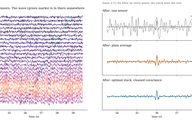
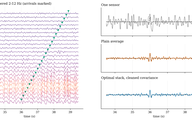
011 seismic denoiser card and write-up rewritten in the 001/002 style

diff --git a/index.html b/index.html
@@ -792,7 +792,16 @@
       </button>
       <div class="more"><div>
         <div class="detail">
-          <div class="text"><div class="gallery"><figure class="big"><img src="https://raw.githubusercontent.com/kevingrainger/Portfolio/main/005-seismic-denoiser/figures/cover.png" alt="" loading="lazy"></figure><figure class="small"><img src="https://raw.githubusercontent.com/kevingrainger/Portfolio/main/005-seismic-denoiser/figures/fig2_scoreboard.png" alt="" loading="lazy"></figure><figure class="small"><img src="https://raw.githubusercontent.com/kevingrainger/Portfolio/main/005-seismic-denoiser/figures/fig3_array.png" alt="" loading="lazy"></figure></div><p>Small earthquakes under Los Angeles are often buried in traffic and other noise. On 3,000 of the noisiest recordings from the Southern California Seismic Network I tested which denoising methods keep the P-wave arrival time and first motion. Random matrix theory only looked best because every arrival sat at the same point in the window. A plain bandpass filter was the only method that helped without changing any first motions.</p>
+          <div class="text"><div class="gallery"><figure class="big"><img src="https://raw.githubusercontent.com/kevingrainger/Portfolio/main/005-seismic-denoiser/figures/cover.png" alt="" loading="lazy"></figure><figure class="small"><img src="https://raw.githubusercontent.com/kevingrainger/Portfolio/main/005-seismic-denoiser/figures/fig2_scoreboard.png" alt="" loading="lazy"></figure><figure class="small"><img src="https://raw.githubusercontent.com/kevingrainger/Portfolio/main/005-seismic-denoiser/figures/fig3_array.png" alt="" loading="lazy"></figure></div><p>Seismology is built on signal processing, which ties it to my other projects, and earth systems are where my passion in applied mathematics lies. Southern California has about 10,000 earthquakes a year, most of them too small to feel, and under Los Angeles many are buried in traffic and other noise.</p><p>The aim was to find which denoising methods keep what a seismologist needs from a recording, the P-wave arrival time and the first motion (whether the ground moves up or down first). Filters, wavelets and a random-matrix denoiser were scored on 3,000 of the noisiest labelled recordings from the Southern California Seismic Network (Ross, Meier &amp; Hauksson, 2018), and minimum-variance stacking on a synthetic array.</p><p>It was found that the random-matrix denoiser picked 98% of arrivals only because every recording had its arrival at the same point. With the arrivals moved at random it picked 60%, against 56% with no denoising. A plain bandpass filter was the only method that helped (63%) without changing any first motions, while wavelets added about 3 dB of signal-to-noise but flipped the first motion on about one trace in fourteen.</p><p>Furthermore, it was found on the synthetic array that minimum-variance weights cancel noise shared between neighbouring sensors (13.9 dB against 10.9 dB for a plain average of 32), but only once the noise covariance is cleaned with shrinkage, from 0.2 s of noise rather than 0.8 s.</p>
+            
+            
+            
+            
+            
+            
+            
+            
+            
             
             
             
@@ -804,7 +813,7 @@
           
         </div>
         <div class="ext" id="ext-005" hidden>
-          <div class="infull"><p>Seismology is built on signal processing, which ties it to my other projects, and earth systems are where my passion in applied mathematics lies. Small earthquakes under Los Angeles are often buried in traffic and other noise. I took 3,000 of the noisiest recordings (the bottom fifth by signal-to-noise) of small, local earthquakes from the Southern California Seismic Network, from a dataset where analysts have marked each P-wave arrival and its first motion. The P wave is the first wave to arrive from an earthquake. The time it lands at each station is used to locate the quake, and whether the ground first moves up or down at each station (the first motion) shows how the fault slipped. Earthquake catalogues and later reanalysis are built on these two numbers, so they are what any denoising has to preserve. With so many denoising methods available, the question was whether any of them can make these noisy recordings usable.</p><p>I picked arrivals with an STA/LTA trigger, the standard picker in seismology, and calibrated it and a first-motion estimator on quiet recordings, where they agree with the analysts 99% and 97% of the time. On the noisy set I compared a bandpass filter, wavelet thresholding, a random-matrix-theory denoiser (a PCA template with a Marchenko-Pastur cut-off), and wavelets followed by random matrix theory. Random matrix theory looked best, picking 98% of arrivals, but only because every recording had its arrival at the same point in the window. With the arrivals moved at random it fell to 60%, against 56% with no denoising at all. Wavelets raised the signal-to-noise ratio by about 3 dB but flipped the first motion on about one trace in fourteen. A plain bandpass filter was the only method that helped (from 55% to 63% of arrivals picked) without changing any first motions.</p><p>The dataset holds single-station recordings, so to test combining sensors I built a synthetic array: 24 sensors in a line, one wave crossing them, and noise from a road shared between neighbouring sensors. Minimum-variance (Capon) beamforming, which weights each sensor using the noise covariance, beats a simple average because it learns the shared road noise and cancels it. It only does so once the covariance is cleaned with shrinkage: raw weights need about 0.8 s of noise to estimate, cleaned ones work from 0.2 s.</p></div>
+          <div class="infull"><p>The P wave is the first wave to arrive from an earthquake. The time it arrives at each station is used to locate the quake, and whether the ground first moves up or down (the first motion) shows how the fault slipped. Earthquake catalogues are built on these two numbers, so they are what any denoising has to preserve. The data are 3,000 recordings from the noisiest fifth of a labelled Southern California Seismic Network dataset (Ross, Meier &amp; Hauksson, 2018), small (M ≤ 3.5) local (≤ 50 km) earthquakes with an analyst&#x27;s arrival time and first motion on each, 6 s at 100 Hz with a median signal-to-noise ratio of 2.7.</p><p>Arrivals are picked with an STA/LTA trigger, the standard picker in seismology. It compares the energy in a short window (0.1 s) with a long one (1 s) and picks the first sample where the ratio passes 6:</p><p class="eq">R(t) = STA(t) / LTA(t) = [ (1/n_s) Σ_{last 0.1 s} x² ] / [ (1/n_l) Σ_{last 1 s} x² ],     pick = first t with R(t) &gt; 6</p><p>The random-matrix denoiser keeps the principal components of the traces whose eigenvalues lie above the Marchenko-Pastur edge for n samples per trace and m traces:</p><p class="eq">λ₊ = (1 + √(n / m))²</p><p>For an array, the minimum-variance (Capon) weights give the least noise for a given noise covariance Σ while passing the aligned wave a at unit gain:</p><p class="eq">w = Σ⁻¹ a / (aᵀ Σ⁻¹ a)</p><p>The main results:</p><ul class="abs"><li><b>Moving the arrival changes the ranking.</b> Every trace in the dataset has its arrival at the same sample. Scored as they come, the random-matrix denoiser picked 98% of arrivals. With each arrival moved at random it fell to 60%, against 56% with no denoising.</li><li><b>Only a bandpass filter helps without harm.</b> It raised the arrivals picked from 56% to 63% and kept the first motion on 91% of traces, the same as no denoising.</li><li><b>A cleaner-looking waveform can be worse for picking.</b> Wavelet thresholding added about 3 dB of signal-to-noise and picked the most arrivals (68%), but the first motion matched the analyst on 84% of traces against 91%, a flip on about one trace in fourteen.</li></ul><p>The other results, on a synthetic array where the truth is known:</p><ul class="abs"><li><b>Shared noise holds back averaging.</b> With noise from a road shared between neighbouring sensors, a plain average of 32 sensors reduced the noise by 10.9 dB against 15.1 dB for independent noise. The minimum-variance stack, with a cleaned covariance, reached 13.9 dB.</li><li><b>The covariance has to be cleaned.</b> Raw minimum-variance weights needed about 0.8 s of noise to beat the average. Cleaned with nonlinear shrinkage (corrlib), they beat it from 0.2 s.</li></ul><p>We could test the array methods on a real dense array, which the single-station dataset cannot do, and score the denoisers by how much they move the event locations and fault-plane solutions built from the picks.</p></div>
           <div class="tabs" role="tablist" aria-label="Seismic denoiser sections">
             <button type="button" role="tab" id="t-005-method" aria-controls="p-005-method" aria-selected="true">method</button>
             <button type="button" role="tab" id="t-005-results" aria-controls="p-005-results" aria-selected="false" tabindex="-1">results</button>
@@ -812,14 +821,15 @@
           </div>
           <div class="panel" role="tabpanel" id="p-005-method" aria-labelledby="t-005-method">
             <ol class="timeline">
-<li class="step"><div><h5><span class="sn">01</span>Calibrate on quiet traces</h5><p>Picker and first-motion estimator agree with analysts on 99% and 97% of clean recordings.</p></div><figure><img src="https://raw.githubusercontent.com/kevingrainger/Portfolio/main/005-seismic-denoiser/figures/fig1_one_trace.png" alt="Calibrate on quiet traces" loading="lazy"><figcaption>Calibrate on quiet traces</figcaption></figure></li>
-<li class="step"><div><h5><span class="sn">02</span>Score on noisy ones</h5><p>Five methods, with and without a random shift of the arrival. Random matrix theory&#x27;s 98% falls to 60% once the arrivals move, and only a bandpass filter helps without flipping first motions.</p></div><figure><img src="https://raw.githubusercontent.com/kevingrainger/Portfolio/main/005-seismic-denoiser/figures/fig2_scoreboard.png" alt="Score on noisy ones" loading="lazy"><figcaption>Score on noisy ones</figcaption></figure></li>
-<li class="step"><div><h5><span class="sn">03</span>Stack an array</h5><p>Sensors near a road share noise; the covariance finds and cancels it.</p></div><figure><img src="https://raw.githubusercontent.com/kevingrainger/Portfolio/main/005-seismic-denoiser/figures/fig3_array.png" alt="Stack an array" loading="lazy"><figcaption>Stack an array</figcaption></figure></li>
-<li class="step"><div><h5><span class="sn">04</span>How much data?</h5><p>Raw optimal weights need ~0.8 s of noise to beat averaging; cleaned weights win from 0.2 s.</p></div><figure><img src="https://raw.githubusercontent.com/kevingrainger/Portfolio/main/005-seismic-denoiser/figures/fig4_crossover.png" alt="How much data?" loading="lazy"><figcaption>How much data?</figcaption></figure></li>
+<li class="step"><div><h5><span class="sn">01</span>The data and calibration</h5><p>The labelled waveforms are from Ross, Meier &amp; Hauksson (2018), single-station recordings from the Southern California Seismic Network, each 6 s at 100 Hz and centred on the analyst&#x27;s P-wave arrival, with the first motion labelled up or down. I took 3,000 traces from the noisiest fifth by signal-to-noise ratio (median 2.7), small (M ≤ 3.5) and local (≤ 50 km).</p><p>Two tools score every method:</p><ul><li><b>The picker.</b> An STA/LTA trigger (Allen, 1978) with a 0.1 s short window, a 1 s long window and a threshold of 6. A pick is correct if it is within 0.2 s of the analyst&#x27;s.</li><li><b>The first motion.</b> The mean of the three samples after the arrival against the mean of the ten before it, up if it rises.</li></ul><p>Both were calibrated on 2,000 of the quietest traces, where they should be near perfect. There the picker is within 0.2 s on 99% of traces and the first motion agrees with the analyst on 97%. On the noisy set a drop below that comes from the noise rather than the tools.</p><p>The figure is one noisy trace with its arrival moved (next step) and four treatments, each scaled to its own maximum. The dashed black line is the analyst&#x27;s arrival and the solid coloured line each method&#x27;s pick. The raw trace and the random-matrix template pick about 0.05 s late, the bandpass filter picks on the arrival, and the wavelet trace is smooth before the arrival but its pick is late as well.</p></div><div class="figs"><figure><img src="https://raw.githubusercontent.com/kevingrainger/Portfolio/main/005-seismic-denoiser/figures/fig1_one_trace.png" alt="One noisy trace: raw, bandpass, wavelet and random-matrix template, with the analyst&#x27;s arrival and each pick" loading="lazy"><figcaption>One noisy trace: raw, bandpass, wavelet and random-matrix template, with the analyst&#x27;s arrival and each pick</figcaption></figure></div></li>
+<li class="step"><div><h5><span class="sn">02</span>Denoising methods and the moved-arrival test</h5><p>Four denoisers were compared with doing nothing:</p><ul><li><b>Bandpass.</b> A fourth-order Butterworth filter passing 1 to 20 Hz, run forwards and backwards so it adds no delay.</li><li><b>Wavelet thresholding.</b> A Daubechies-4 wavelet transform to four levels, with the detail coefficients soft-thresholded at the universal threshold, the noise level times √(2 ln n) (Donoho &amp; Johnstone, 1994).</li><li><b>Random-matrix template.</b> The 3,000 traces as a matrix, keeping the principal components above the Marchenko-Pastur edge (at least five), which assumes white, independent noise.</li><li><b>Wavelet then random-matrix.</b></li></ul><p>Every trace in the dataset has its arrival at sample 300. A method that learns from many traces at once can learn that something happens at sample 300 and put it there. So each method was scored twice, on the traces as they come and on a random 4.5 s window of each, which moves the arrival to anywhere from 1.5 to 3 s.</p><p>In the figure each row is a method, grey for the arrival fixed and coloured for the arrival moved, with three panels:</p><ul><li><b>Arrivals picked.</b> No denoising 56%, bandpass 63%, wavelet 68%, random-matrix 98% fixed but 60% moved, wavelet then random-matrix 74% fixed and 59% moved.</li><li><b>First motion.</b> No denoising and bandpass 91%, random-matrix 86%, wavelet 84%, wavelet then random-matrix 79%.</li><li><b>Signal-to-noise gain.</b> Random-matrix 10.5 dB fixed and 7.1 dB moved, wavelet then random-matrix 5.1 and 4.2 dB, wavelet 3.0 dB, bandpass 0.1 dB.</li></ul><p>Most of what the random-matrix template had learned was where the arrivals are. Its signal-to-noise gain stays high once they move, while its picks fall almost to no denoising, so the gain did not come with a better pick. The bandpass filter is the only method that picks more arrivals without changing any first motions.</p><p>The second figure is the spread of pick errors with the arrival moved, the pick minus the analyst&#x27;s arrival, with ±0.2 s shaded. The misses differ between methods. With no denoising 41% of traces never pass the threshold and almost every pick that is made is right, slightly late (median error 0.08 s). The bandpass filter cuts the traces with no pick to 32%. The random-matrix methods pick almost every trace, but many of the extra picks are early, spread up to 1.5 s before the arrival.</p></div><div class="figs"><figure><img src="https://raw.githubusercontent.com/kevingrainger/Portfolio/main/005-seismic-denoiser/figures/fig2_scoreboard.png" alt="Arrivals picked, first motion and signal-to-noise gain for each method, with the arrival fixed and moved" loading="lazy"><figcaption>Arrivals picked, first motion and signal-to-noise gain for each method, with the arrival fixed and moved</figcaption></figure><figure><img src="https://raw.githubusercontent.com/kevingrainger/Portfolio/main/005-seismic-denoiser/figures/fig5_pick_errors.png" alt="Pick error by method with the arrival moved, and the share of traces with no pick" loading="lazy"><figcaption>Pick error by method with the arrival moved, and the share of traces with no pick</figcaption></figure></div></li>
+<li class="step"><div><h5><span class="sn">03</span>A synthetic array with shared noise</h5><p>The dataset holds single-station recordings, so to test combining sensors I built a synthetic array where the truth is known. 24 sensors sit 0.5 km apart on a line, and a 6 Hz Ricker wavelet crosses them at 0.25 s/km, so each arrives 0.125 s after its neighbour. Each sensor has its own noise, and a road at 2 km adds noise that every sensor shares, strongest near the road and fading over about 2 km.</p><p>Averaging the aligned traces removes independent noise, falling as 1/√N, but shared noise survives the average as well as the wave does. The minimum-variance weights use the noise covariance, estimated from a stretch of noise before the wave arrives, and judged on a different stretch.</p><p>In the first figure, the left panel is the raw traces at their positions, with the band near the road shaded, where the traces are visibly noisier. The right panel is the stacked traces, the plain average (grey), the minimum-variance stack with a cleaned covariance (blue) and the true wave (black). The second figure is the same array filtered 2 to 12 Hz, with each sensor&#x27;s arrival marked on the left, and on the right one sensor, the plain average and the optimal stack, each against the true wave (dashed). The optimal stack has the least noise around the arrival.</p></div><div class="figs"><figure><img src="https://raw.githubusercontent.com/kevingrainger/Portfolio/main/005-seismic-denoiser/figures/fig3_array.png" alt="Raw traces by sensor position, and the average and optimal stack against the true wave" loading="lazy"><figcaption>Raw traces by sensor position, and the average and optimal stack against the true wave</figcaption></figure><figure><img src="https://raw.githubusercontent.com/kevingrainger/Portfolio/main/005-seismic-denoiser/figures/cover.png" alt="The array filtered 2-12 Hz: one sensor, the plain average and the optimal stack" loading="lazy"><figcaption>The array filtered 2-12 Hz: one sensor, the plain average and the optimal stack</figcaption></figure></div></li>
+<li class="step"><div><h5><span class="sn">04</span>How much noise the weights need</h5><p>The minimum-variance weights need a covariance matrix, and estimating one for 32 sensors from a short stretch of noise gives mostly noise, so the weights start to follow it. The fix is to clean the covariance before inverting it, with corrlib&#x27;s Ledoit-Wolf or nonlinear shrinkage.</p><p>The figure is the noise reduction against one typical sensor for 32 sensors, against the length of noise used to estimate the weights (log scale), averaged over eight random arrays:</p><ul><li><b>Plain average.</b> 11.0 dB at every length, since it needs no estimate.</li><li><b>Raw weights.</b> 5.9 dB from 0.2 s of noise, below the average, crossing it at about 0.8 s and reaching 13.8 dB at 10 s.</li><li><b>Ledoit-Wolf.</b> 11.4 dB from 0.2 s.</li><li><b>Nonlinear shrinkage.</b> 13.1 dB from 0.2 s, close to the 13.9 dB all three reach with 10 s of noise.</li></ul><p>This means that with a cleaned covariance the optimal weights work from a fifth of a second of noise, where the raw formula does worse than averaging.</p></div><div class="figs"><figure><img src="https://raw.githubusercontent.com/kevingrainger/Portfolio/main/005-seismic-denoiser/figures/fig4_crossover.png" alt="Noise reduction against the length of noise used for the weights, 32 sensors" loading="lazy"><figcaption>Noise reduction against the length of noise used for the weights, 32 sensors</figcaption></figure></div></li>
+<li class="step"><div><h5><span class="sn">05</span>Noise reduction against array size</h5><p>The last test is how the gain grows with the number of sensors, from 4 to 48, with the weights estimated from 4 s of noise and each point averaged over 20 random arrays.</p><p>In the figure the dashed line is the ideal for independent noise, 10 log₁₀ N, and the grey line is a plain average with independent noise, which follows it. The other two lines have the shared road noise:</p><ul><li><b>Plain average.</b> Falls behind, 10.9 dB at 32 sensors against 15.1 dB for independent noise.</li><li><b>Optimal stack, cleaned.</b> 13.9 dB at 32 sensors and 16.0 dB at 48, recovering most of what the road took away.</li></ul><p>Below about 20 sensors the optimal stack is above the independent-noise line. The comparison is against a typical sensor, which itself carries some of the road noise.</p></div><div class="figs"><figure><img src="https://raw.githubusercontent.com/kevingrainger/Portfolio/main/005-seismic-denoiser/figures/hero.png" alt="Noise reduction against sensors stacked: average and optimal stack with road noise, and the independent-noise ideal" loading="lazy"><figcaption>Noise reduction against sensors stacked: average and optimal stack with road noise, and the independent-noise ideal</figcaption></figure></div></li>
             </ol>
           </div>
           <div class="panel" role="tabpanel" id="p-005-results" aria-labelledby="t-005-results" hidden>
-            <div class="results"><figure><img src="https://raw.githubusercontent.com/kevingrainger/Portfolio/main/005-seismic-denoiser/figures/fig2_scoreboard.png" alt="Scoreboard" loading="lazy"><figcaption>Scoreboard</figcaption></figure><figure><img src="https://raw.githubusercontent.com/kevingrainger/Portfolio/main/005-seismic-denoiser/figures/fig1_one_trace.png" alt="One noisy trace" loading="lazy"><figcaption>One noisy trace</figcaption></figure><figure><img src="https://raw.githubusercontent.com/kevingrainger/Portfolio/main/005-seismic-denoiser/figures/fig4_crossover.png" alt="The crossover" loading="lazy"><figcaption>The crossover</figcaption></figure><figure><img src="https://raw.githubusercontent.com/kevingrainger/Portfolio/main/005-seismic-denoiser/figures/hero.png" alt="Gain against array size" loading="lazy"><figcaption>Gain against array size</figcaption></figure></div>
+            <div class="results"><figure><img src="https://raw.githubusercontent.com/kevingrainger/Portfolio/main/005-seismic-denoiser/figures/fig2_scoreboard.png" alt="Arrivals picked, first motion and SNR gain by method" loading="lazy"><figcaption>Arrivals picked, first motion and SNR gain by method</figcaption></figure><figure><img src="https://raw.githubusercontent.com/kevingrainger/Portfolio/main/005-seismic-denoiser/figures/fig1_one_trace.png" alt="One noisy trace, four treatments" loading="lazy"><figcaption>One noisy trace, four treatments</figcaption></figure><figure><img src="https://raw.githubusercontent.com/kevingrainger/Portfolio/main/005-seismic-denoiser/figures/fig4_crossover.png" alt="Noise reduction against training noise" loading="lazy"><figcaption>Noise reduction against training noise</figcaption></figure><figure><img src="https://raw.githubusercontent.com/kevingrainger/Portfolio/main/005-seismic-denoiser/figures/hero.png" alt="Noise reduction against sensors stacked" loading="lazy"><figcaption>Noise reduction against sensors stacked</figcaption></figure></div>
           </div>
           <div class="panel" role="tabpanel" id="p-005-pipeline" aria-labelledby="t-005-pipeline" hidden>
             <p class="hint">Hover or tab to a box to trace everything that feeds into it and everything it feeds.</p>
@@ -1090,7 +1100,7 @@
         </div>
       </div></div>
     </li>
-  </ul>l>l>l>l>l>l>l>l>l>l>l>l>l>l>l>l>l>l>l>l>l>l>l>l>l>l>l>l>l>l>l>l>l>l>l>l>l>l>l>l>l>
+  </ul>l>l>l>l>l>l>l>l>l>l>l>l>l>l>l>l>l>l>l>l>l>l>l>l>l>l>l>l>l>l>l>l>l>l>l>l>l>l>l>l>l>l>l>l>
 
   <footer>
     <p>Source on <a href="https://github.com/KevinGrainger">GitHub</a>.</p>

diff --git a/build_index.py b/build_index.py
@@ -175,17 +175,12 @@ PROJECTS = [
          maps=[("maps/012-rhine-cascade.html", "Interactive: disruption probability for every firm at Kaub 25 cm, as calibrated and with substitution strained.")]),
     dict(num="011", key="005", tag="signals", tag_label="Signals", status="complete",
          folder="005-seismic-denoiser", title="Seismic denoiser",
-         summary=["Seismology is built on signal processing, which ties it to my other projects, and earth systems are where my passion in applied mathematics lies. Small earthquakes under Los Angeles are often buried in traffic and other noise. I took 3,000 of the noisiest recordings (the bottom fifth by signal-to-noise) of small, local earthquakes from the Southern California Seismic Network, from a dataset where analysts have marked each P-wave arrival and its first motion. The P wave is the first wave to arrive from an earthquake. The time it lands at each station is used to locate the quake, and whether the ground first moves up or down at each station (the first motion) shows how the fault slipped. Earthquake catalogues and later reanalysis are built on these two numbers, so they are what any denoising has to preserve. With so many denoising methods available, the question was whether any of them can make these noisy recordings usable.",
-                  "I picked arrivals with an STA/LTA trigger, the standard picker in seismology, and calibrated it and a first-motion estimator on quiet recordings, where they agree with the analysts 99% and 97% of the time. On the noisy set I compared a bandpass filter, wavelet thresholding, a random-matrix-theory denoiser (a PCA template with a Marchenko-Pastur cut-off), and wavelets followed by random matrix theory. Random matrix theory looked best, picking 98% of arrivals, but only because every recording had its arrival at the same point in the window. With the arrivals moved at random it fell to 60%, against 56% with no denoising at all. Wavelets raised the signal-to-noise ratio by about 3 dB but flipped the first motion on about one trace in fourteen. A plain bandpass filter was the only method that helped (from 55% to 63% of arrivals picked) without changing any first motions.",
-                  "The dataset holds single-station recordings, so to test combining sensors I built a synthetic array: 24 sensors in a line, one wave crossing them, and noise from a road shared between neighbouring sensors. Minimum-variance (Capon) beamforming, which weights each sensor using the noise covariance, beats a simple average because it learns the shared road noise and cancels it. It only does so once the covariance is cleaned with shrinkage: raw weights need about 0.8 s of noise to estimate, cleaned ones work from 0.2 s."],
+         summary=["The P wave is the first wave to arrive from an earthquake. The time it arrives at each station is used to locate the quake, and whether the ground first moves up or down (the first motion) shows how the fault slipped. Earthquake catalogues are built on these two numbers, so they are what any denoising has to preserve. The data are 3,000 recordings from the noisiest fifth of a labelled Southern California Seismic Network dataset (Ross, Meier & Hauksson, 2018), small (M ≤ 3.5) local (≤ 50 km) earthquakes with an analyst's arrival time and first motion on each, 6 s at 100 Hz with a median signal-to-noise ratio of 2.7.", 'Arrivals are picked with an STA/LTA trigger, the standard picker in seismology. It compares the energy in a short window (0.1 s) with a long one (1 s) and picks the first sample where the ratio passes 6:', '$eq R(t) = STA(t) / LTA(t) = [ (1/n_s) Σ_{last 0.1 s} x² ] / [ (1/n_l) Σ_{last 1 s} x² ],     pick = first t with R(t) > 6', 'The random-matrix denoiser keeps the principal components of the traces whose eigenvalues lie above the Marchenko-Pastur edge for n samples per trace and m traces:', '$eq λ₊ = (1 + √(n / m))²', 'For an array, the minimum-variance (Capon) weights give the least noise for a given noise covariance Σ while passing the aligned wave a at unit gain:', '$eq w = Σ⁻¹ a / (aᵀ Σ⁻¹ a)', 'The main results:', ['**Moving the arrival changes the ranking.** Every trace in the dataset has its arrival at the same sample. Scored as they come, the random-matrix denoiser picked 98% of arrivals. With each arrival moved at random it fell to 60%, against 56% with no denoising.', '**Only a bandpass filter helps without harm.** It raised the arrivals picked from 56% to 63% and kept the first motion on 91% of traces, the same as no denoising.', '**A cleaner-looking waveform can be worse for picking.** Wavelet thresholding added about 3 dB of signal-to-noise and picked the most arrivals (68%), but the first motion matched the analyst on 84% of traces against 91%, a flip on about one trace in fourteen.'], 'The other results, on a synthetic array where the truth is known:', ['**Shared noise holds back averaging.** With noise from a road shared between neighbouring sensors, a plain average of 32 sensors reduced the noise by 10.9 dB against 15.1 dB for independent noise. The minimum-variance stack, with a cleaned covariance, reached 13.9 dB.', '**The covariance has to be cleaned.** Raw minimum-variance weights needed about 0.8 s of noise to beat the average. Cleaned with nonlinear shrinkage (corrlib), they beat it from 0.2 s.'], 'We could test the array methods on a real dense array, which the single-station dataset cannot do, and score the denoisers by how much they move the event locations and fault-plane solutions built from the picks.'],
          stack="Python · STA/LTA · bandpass · wavelets · random matrix theory · minimum-variance beamforming · corrlib",
-         hero=("figures/cover.png", "A buried wave, before and after: one sensor, the average, the optimal stack"),
-         steps=[("Calibrate on quiet traces", "Picker and first-motion estimator agree with analysts on 99% and 97% of clean recordings.", "figures/fig1_one_trace.png"),
-                ("Score on noisy ones", "Five methods, with and without a random shift of the arrival. Random matrix theory's 98% falls to 60% once the arrivals move, and only a bandpass filter helps without flipping first motions.", "figures/fig2_scoreboard.png"),
-                ("Stack an array", "Sensors near a road share noise; the covariance finds and cancels it.", "figures/fig3_array.png"),
-                ("How much data?", "Raw optimal weights need ~0.8 s of noise to beat averaging; cleaned weights win from 0.2 s.", "figures/fig4_crossover.png")],
-         results=[("figures/fig2_scoreboard.png", "Scoreboard"), ("figures/fig1_one_trace.png", "One noisy trace"),
-                  ("figures/fig4_crossover.png", "The crossover"), ("figures/hero.png", "Gain against array size")]),
+         hero=("figures/cover.png", "A synthetic 24-sensor array filtered 2-12 Hz: one sensor, the plain average and the optimal stack"),
+         steps=[('The data and calibration', "The labelled waveforms are from Ross, Meier & Hauksson (2018), single-station recordings from the Southern California Seismic Network, each 6 s at 100 Hz and centred on the analyst's P-wave arrival, with the first motion labelled up or down. I took 3,000 traces from the noisiest fifth by signal-to-noise ratio (median 2.7), small (M ≤ 3.5) and local (≤ 50 km).\n\nTwo tools score every method:\n\n- **The picker.** An STA/LTA trigger (Allen, 1978) with a 0.1 s short window, a 1 s long window and a threshold of 6. A pick is correct if it is within 0.2 s of the analyst's.\n- **The first motion.** The mean of the three samples after the arrival against the mean of the ten before it, up if it rises.\n\nBoth were calibrated on 2,000 of the quietest traces, where they should be near perfect. There the picker is within 0.2 s on 99% of traces and the first motion agrees with the analyst on 97%. On the noisy set a drop below that comes from the noise rather than the tools.\n\nThe figure is one noisy trace with its arrival moved (next step) and four treatments, each scaled to its own maximum. The dashed black line is the analyst's arrival and the solid coloured line each method's pick. The raw trace and the random-matrix template pick about 0.05 s late, the bandpass filter picks on the arrival, and the wavelet trace is smooth before the arrival but its pick is late as well.", [('figures/fig1_one_trace.png', "One noisy trace: raw, bandpass, wavelet and random-matrix template, with the analyst's arrival and each pick")]), ('Denoising methods and the moved-arrival test', "Four denoisers were compared with doing nothing:\n\n- **Bandpass.** A fourth-order Butterworth filter passing 1 to 20 Hz, run forwards and backwards so it adds no delay.\n- **Wavelet thresholding.** A Daubechies-4 wavelet transform to four levels, with the detail coefficients soft-thresholded at the universal threshold, the noise level times √(2 ln n) (Donoho & Johnstone, 1994).\n- **Random-matrix template.** The 3,000 traces as a matrix, keeping the principal components above the Marchenko-Pastur edge (at least five), which assumes white, independent noise.\n- **Wavelet then random-matrix.**\n\nEvery trace in the dataset has its arrival at sample 300. A method that learns from many traces at once can learn that something happens at sample 300 and put it there. So each method was scored twice, on the traces as they come and on a random 4.5 s window of each, which moves the arrival to anywhere from 1.5 to 3 s.\n\nIn the figure each row is a method, grey for the arrival fixed and coloured for the arrival moved, with three panels:\n\n- **Arrivals picked.** No denoising 56%, bandpass 63%, wavelet 68%, random-matrix 98% fixed but 60% moved, wavelet then random-matrix 74% fixed and 59% moved.\n- **First motion.** No denoising and bandpass 91%, random-matrix 86%, wavelet 84%, wavelet then random-matrix 79%.\n- **Signal-to-noise gain.** Random-matrix 10.5 dB fixed and 7.1 dB moved, wavelet then random-matrix 5.1 and 4.2 dB, wavelet 3.0 dB, bandpass 0.1 dB.\n\nMost of what the random-matrix template had learned was where the arrivals are. Its signal-to-noise gain stays high once they move, while its picks fall almost to no denoising, so the gain did not come with a better pick. The bandpass filter is the only method that picks more arrivals without changing any first motions.\n\nThe second figure is the spread of pick errors with the arrival moved, the pick minus the analyst's arrival, with ±0.2 s shaded. The misses differ between methods. With no denoising 41% of traces never pass the threshold and almost every pick that is made is right, slightly late (median error 0.08 s). The bandpass filter cuts the traces with no pick to 32%. The random-matrix methods pick almost every trace, but many of the extra picks are early, spread up to 1.5 s before the arrival.", [('figures/fig2_scoreboard.png', 'Arrivals picked, first motion and signal-to-noise gain for each method, with the arrival fixed and moved'), ('figures/fig5_pick_errors.png', 'Pick error by method with the arrival moved, and the share of traces with no pick')]), ('A synthetic array with shared noise', "The dataset holds single-station recordings, so to test combining sensors I built a synthetic array where the truth is known. 24 sensors sit 0.5 km apart on a line, and a 6 Hz Ricker wavelet crosses them at 0.25 s/km, so each arrives 0.125 s after its neighbour. Each sensor has its own noise, and a road at 2 km adds noise that every sensor shares, strongest near the road and fading over about 2 km.\n\nAveraging the aligned traces removes independent noise, falling as 1/√N, but shared noise survives the average as well as the wave does. The minimum-variance weights use the noise covariance, estimated from a stretch of noise before the wave arrives, and judged on a different stretch.\n\nIn the first figure, the left panel is the raw traces at their positions, with the band near the road shaded, where the traces are visibly noisier. The right panel is the stacked traces, the plain average (grey), the minimum-variance stack with a cleaned covariance (blue) and the true wave (black). The second figure is the same array filtered 2 to 12 Hz, with each sensor's arrival marked on the left, and on the right one sensor, the plain average and the optimal stack, each against the true wave (dashed). The optimal stack has the least noise around the arrival.", [('figures/fig3_array.png', 'Raw traces by sensor position, and the average and optimal stack against the true wave'), ('figures/cover.png', 'The array filtered 2-12 Hz: one sensor, the plain average and the optimal stack')]), ('How much noise the weights need', "The minimum-variance weights need a covariance matrix, and estimating one for 32 sensors from a short stretch of noise gives mostly noise, so the weights start to follow it. The fix is to clean the covariance before inverting it, with corrlib's Ledoit-Wolf or nonlinear shrinkage.\n\nThe figure is the noise reduction against one typical sensor for 32 sensors, against the length of noise used to estimate the weights (log scale), averaged over eight random arrays:\n\n- **Plain average.** 11.0 dB at every length, since it needs no estimate.\n- **Raw weights.** 5.9 dB from 0.2 s of noise, below the average, crossing it at about 0.8 s and reaching 13.8 dB at 10 s.\n- **Ledoit-Wolf.** 11.4 dB from 0.2 s.\n- **Nonlinear shrinkage.** 13.1 dB from 0.2 s, close to the 13.9 dB all three reach with 10 s of noise.\n\nThis means that with a cleaned covariance the optimal weights work from a fifth of a second of noise, where the raw formula does worse than averaging.", [('figures/fig4_crossover.png', 'Noise reduction against the length of noise used for the weights, 32 sensors')]), ('Noise reduction against array size', 'The last test is how the gain grows with the number of sensors, from 4 to 48, with the weights estimated from 4 s of noise and each point averaged over 20 random arrays.\n\nIn the figure the dashed line is the ideal for independent noise, 10 log₁₀ N, and the grey line is a plain average with independent noise, which follows it. The other two lines have the shared road noise:\n\n- **Plain average.** Falls behind, 10.9 dB at 32 sensors against 15.1 dB for independent noise.\n- **Optimal stack, cleaned.** 13.9 dB at 32 sensors and 16.0 dB at 48, recovering most of what the road took away.\n\nBelow about 20 sensors the optimal stack is above the independent-noise line. The comparison is against a typical sensor, which itself carries some of the road noise.', [('figures/hero.png', 'Noise reduction against sensors stacked: average and optimal stack with road noise, and the independent-noise ideal')])],
+         results=[("figures/fig2_scoreboard.png", "Arrivals picked, first motion and SNR gain by method"), ("figures/fig1_one_trace.png", "One noisy trace, four treatments"),
+                  ("figures/fig4_crossover.png", "Noise reduction against training noise"), ("figures/hero.png", "Noise reduction against sensors stacked")]),
     dict(num="012", key="004", tag="signals", tag_label="Signals", status="complete",
          folder="004-corrlib-correlation-toolbox", title="corrlib, a correlation library",
          summary=["corrlib is a small Python library for measuring, cleaning and stripping down correlation matrices, which this portfolio's projects import instead of rewriting. It has five modules: correlation measures, estimators for messy data (prices at irregular times, samples that are not independent), factor removal, random-matrix cleaning and array stacking. A Correlator object chains them in one line. Each piece is tested against a known answer or an established library, and shown on ten years of daily closes for 39 US stocks in eight sectors.", 'With N variables and T observations, a correlation matrix of pure noise has its eigenvalues inside the Marchenko-Pastur band, where q = N/T and σ² is the variance of the noise. Eigenvalues outside the band are structure, and the cleaners shrink the ones inside it:', '$eq λ± = σ² (1 ± √q)²', 'Ledoit-Wolf shrinkage pulls the sample matrix S towards a scaled identity by an intensity δ estimated from the data, and nonlinear shrinkage (Ledoit & Wolf, 2020) gives each eigenvalue its own amount. The effective rank, the number of independent bets the variables offer, is computed from the eigenvalues λᵢ:', '$eq Σ̂ = (1 − δ) S + δ μ I,     effective rank = (Σᵢ λᵢ)² / Σᵢ λᵢ²', 'The minimum-variance weights for a portfolio and the optimal (Capon, or MVDR) weights for stacking sensors are the same formula, with C the covariance of the noise:', '$eq w = C⁻¹ 1 / (1ᵀ C⁻¹ 1)', 'The main results:', ["**Tested against known answers.** 59 tests. The rank correlations match SciPy's spearmanr and kendalltau, Ledoit-Wolf shrinkage matches scikit-learn's to within 10⁻⁶, and every cleaner gives the same answer on a covariance as on the matching correlation.", '**Removing the market reveals the sectors.** On the 39 stocks, regressing out the market (the equal-weighted average return) raises the effective number of independent bets from about 7 to 15, and ordered by clustering the sectors appear as blocks down the diagonal. The top eigenvector, found without being told what the market is, correlates with the market return at 0.88.', "**Cleaning helps the matrix more than the portfolio.** Built from one year of data and held for the next, a minimum-variance portfolio's realised risk was 1.48 times its prediction with the raw matrix and 1.41 to 1.44 times with the three cleaners."], 'The other results:', ['**Tail dependence.** On their worst 5% of days, two banks (JPM and BAC) share about 70% of bad days, a bank and a utility (JPM and SO) about 20%, against 5% for independent assets.', '**The Epps effect.** On simulated ticks with a true correlation of 0.70, sampling every tick measures 0.31. The Hayashi-Yoshida estimator, which uses only overlapping trade intervals, recovers 0.50 on irregular ticks.', '**Stacking.** On a simulated array of 12 sensors with shared noise, the optimal weights gave about 5 dB of noise reduction, half the 11 dB that independent noise would allow.', '**Bugs caught by tests.** My first nonlinear shrinkage was worse than no cleaning near q = 1, and an early clipping result that looked perfect came from applying a unit-variance noise band to a covariance matrix.'], 'We could extend the tests to the data the other projects use, such as solar sites and seismometer arrays, where the noise is not the independent Gaussian noise the Marchenko-Pastur band assumes.'],

diff --git a/redesign.py b/redesign.py
@@ -40,7 +40,7 @@ SUMMARY = {
 "008": "The devastating storms in Chile got me interested in how Earth observation can show their impact on industrial zones. Ship traffic at the copper ports tracks Peru's official copper exports, and Sentinel-2's shortwave infrared finds heat at 24 of 30 smelters. Neither predicts the price in steady conditions, so the interesting cases are disruptions: in the July 2026 Chile storm, detection and price were days apart.",
 "009": "This project measures how much the weather moves the Italian power price once gas is taken out, on real Italy North data for 2018-2026. Day by day, heat lifts power above gas. Over months the weather matters for volatility in the opposite direction to a 2026 study: months with more extreme days are calmer, because in a heatwave gas plants set the price every hour. A three-month forecast adds almost nothing.",
 "010": "Inspired by Ecology for Bankers (May, Levin & Sugihara 2008): a 16-page LaTeX note deriving May's stability bound and percolation thresholds, then applying them to supply-chain risk when the Rhine runs low. A low-water month costing about 1% of German industrial output fits a network that is safe and one close to tipping, and past the threshold the average loss jumps to 38%.",
-"011": "Small earthquakes under Los Angeles are often buried in traffic and other noise. On 3,000 of the noisiest recordings from the Southern California Seismic Network I tested which denoising methods keep the P-wave arrival time and first motion. Random matrix theory only looked best because every arrival sat at the same point in the window. A plain bandpass filter was the only method that helped without changing any first motions.",
+"011": "Seismology is built on signal processing, which ties it to my other projects, and earth systems are where my passion in applied mathematics lies. Southern California has about 10,000 earthquakes a year, most of them too small to feel, and under Los Angeles many are buried in traffic and other noise.</p><p>The aim was to find which denoising methods keep what a seismologist needs from a recording, the P-wave arrival time and the first motion (whether the ground moves up or down first). Filters, wavelets and a random-matrix denoiser were scored on 3,000 of the noisiest labelled recordings from the Southern California Seismic Network (Ross, Meier &amp; Hauksson, 2018), and minimum-variance stacking on a synthetic array.</p><p>It was found that the random-matrix denoiser picked 98% of arrivals only because every recording had its arrival at the same point. With the arrivals moved at random it picked 60%, against 56% with no denoising. A plain bandpass filter was the only method that helped (63%) without changing any first motions, while wavelets added about 3 dB of signal-to-noise but flipped the first motion on about one trace in fourteen.</p><p>Furthermore, it was found on the synthetic array that minimum-variance weights cancel noise shared between neighbouring sensors (13.9 dB against 10.9 dB for a plain average of 32), but only once the noise covariance is cleaned with shrinkage, from 0.2 s of noise rather than 0.8 s.",
 "012": "I built this small Python library to support my other projects, since most of them involve some kind of correlation, signal processing, filtering or data assimilation. I wanted one set of tools I knew worked, so that when I code with AI agents the tools they call are always consistent and correct, and building it made me learn the mathematics behind each method.</p><p>The aim was one library for correlation measures, estimators for messy data, factor removal, random-matrix cleaning and array stacking, each tested against a known answer or an established library. There are 59 tests, and the rank correlations and Ledoit-Wolf shrinkage match SciPy and scikit-learn.</p><p>On ten years of daily returns for 39 US stocks, it was found that removing the market raises the effective number of independent bets from about 7 to 15, and the sectors appear as blocks once the matrix is ordered by clustering. Furthermore, it was found that cleaning a one-year matrix closes only a small part of the gap between the risk a minimum-variance portfolio predicts and the risk it delivers, with realised risk 1.41 to 1.48 times the prediction for every method.</p><p>The library is the shared engine of the Spanish solar portfolio (006) and the seismic denoiser (011).",
 "013": "This project tests the standard producer hedges against one real shock: Russia's 2010 heatwave and export ban, when European wheat rose 39%. In hindsight the producer did best unhedged, but judged on 3 May, before the event, the ranking reverses. An Italian miller on the other side saved €53 a tonne by buying futures. The same weather shock in another country was a windfall for one side and a loss for the other.",
 "014": "A learning project, from Mark Joshi's The Concepts and Practice of Mathematical Finance. My main interest is commodities, so this is the pricing groundwork for them: an Asian option pays on the average price over a period, which is how commodity buyers usually hedge. Prices are built three independent ways that check each other, and run on coffee, cocoa and sugar with seasonal volatility.",
